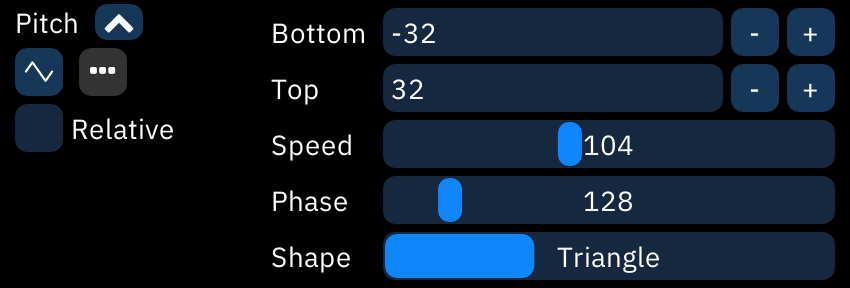
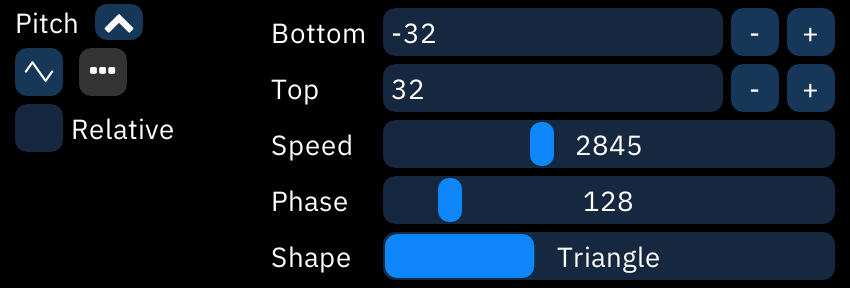
The ADSR/LFO macro docs update.
I hope the descriptions of the math aren't too much, but the new numbers beg for a little more explanation to make sense.

Changed region(s): [[0.6118, 0.4062, 0.7647, 0.5938]]

diff --git a/doc/4-instrument/README.md b/doc/4-instrument/README.md
@@ -98,7 +98,7 @@ each macro has the following parameters:
 - macro type (explained below)
 - timing options:
   - **Step Length (ticks)**: determines the number of ticks between macro steps. default is 1.
-  - **Delay**: delays the macro until this many ticks have elapsed. default is 0.
+  - **Delay**: delays the macro after the first tick until this many more ticks have elapsed. default is 0.
   - the button is highlighted if either of these parameters is set to non-default values.
 
 ## macro types
@@ -181,16 +181,23 @@ the release mode parameter determines how macro release (`===` or `REL` in the p
 
 ![ADSR macro editor](macro-ADSR.png)
 
-- **Bottom** and **Top** determine the macro's output range (Bottom can be larger than Top to invert the envelope!). all outputs will be between these two values.
-- Attack, Decay, Sustain, SusDecay, and Release accept inputs between 0 to 255. these are scaled to the distance between Bottom and Top.
-  - the output starts at Bottom.
-  - **Attack** is how much the output moves toward Top with each tick.
-  - **Hold** sets how many ticks to stay at Top before Decay.
-  - **Decay** is how much the output moves to the Sustain level.
-  - **Sustain** is how far from Bottom the value stays while the note is on.
-  - **SusTime** is how many ticks to stay at Sustain until SusDecay.
-  - **SusDecay** is how much the output moves toward Bottom with each tick while the note is on.
-  - **Release** is how much the output moves toward Bottom with each tick after the note is released.
+note: ADSR envelopes operate differently in versions 0.6.8.3 and prior.
+
+- **Bottom** and **Top** determine the macro's output range Bottom can be larger than Top to invert the envelope. all outputs will be between these two values.
+- the Attack, Decay, SusDecay, and Release portions of the envelope change value by the specified amount before each tick, including the first.
+    - 0 equals no change; the value stays at Bottom.
+    - 1 equals 1/256 of a step per tick, the slowest possible change.
+    - the maximum value is the number of steps between Bottom and Top multiplied by 256 and minus 1. this is effectively instantaneous.
+  - hovering over any of these values' sliders will show a tooltip with the estimated length of that envelope segment in ticks.
+- the envelope plays out in this order:
+  - the output is set to Bottom before the first tick of the note is calculated.
+  - **Attack** is how much the output moves toward Top at the start of each tick. this also includes the first tick that the note plays; an Attack of 256 will start the note at one step from Bottom toward Top.
+  - **Hold** sets how many ticks to stay at Top before Decay starts. ranges from 0 to 255.
+  - **Decay** is how much the output moves toward the Sustain level.
+  - **Sustain** is the value the output stays at until the note is released. ranges from Bottom to Top.
+  - **SusTime** is how many ticks to stay at Sustain until SusDecay. ranges from 0 to 255.
+  - **SusDecay** is how much the output moves toward Bottom while the note is held.
+  - **Release** is how much the output moves toward Bottom after the note is released.
 
 ![macro ADSR chart](macro-ADSRchart.png)
 
@@ -198,13 +205,25 @@ the release mode parameter determines how macro release (`===` or `REL` in the p
 
 ![LFO macro editor](macro-LFO.png)
 
-- **Bottom** and **Top** determine the macro's output range (Bottom can be larger than Top to invert the waveform!).
-- **Speed** is how quickly the LFO position moves.
-- **Phase** defines the starting LFO position, measured in 1/1024 increments.
+note: LFO envelopes operate differently in versions 0.6.8.3 and prior.
+
+- **Bottom** and **Top** determine the macro's output range. Bottom can be larger than Top to invert the waveform. all outputs will be between these two values.
+- **Speed** determines the LFO frequency, and depends on the LFO shape set further below.
+  - for triangle and saw, this is how much the output value changes per tick measured in 1/128 of a step.
+    - 0 equals no change; the value stays frozen at its initial state determined by Phase.
+    - 1 equals 1/128 of a step per tick, the slowest possible change.
+    - the maximum value is the number of steps between Bottom and Top multiplied by 128 and minus 1.
+    - this happens before the first tick plays; an Attack of 128 will start the note at one step from Bottom toward Top.
+  - for Square, this is how much of a single cycle passes per tick, measured in 1/65536 of a cycle.
+    - 0 equals no change.
+    - 1 equals 1/65535 of a cycle per tick, the slowest possible.
+    - the maximum value is 32768 which makes output alternate between Bottom and Top in a two-tick cycle, the fastest possible.
+  - hovering over this value's slider will show a tooltip with the estimated length of a cycle in ticks.
+- **Phase** defines the starting LFO position before the first tick is calculated, measured in 1/1024 cycle increments. a phase of 0 starts at Bottom. for triangle and square Shapes, a phase of 512 outputs Top; for the saw Shape, it outputs halfway between Bottom and Top.
 - **Shape** is the waveform of the LFO. there are three waveforms:
-  - Triangle: Bottom > Top > Bottom.
-  - Saw: moves from Bottom to Top, and then jumps back to Bottom.
-  - Square: alternates between Bottom and Top.
+  - Triangle: smoothly ramps from Bottom to Top to Bottom, looping.
+  - Saw: ramps from Bottom to Top, then snaps back to Bottom and loops.
+  - Square: alternates between Bottom and Top with nothing in between.
 
 
 